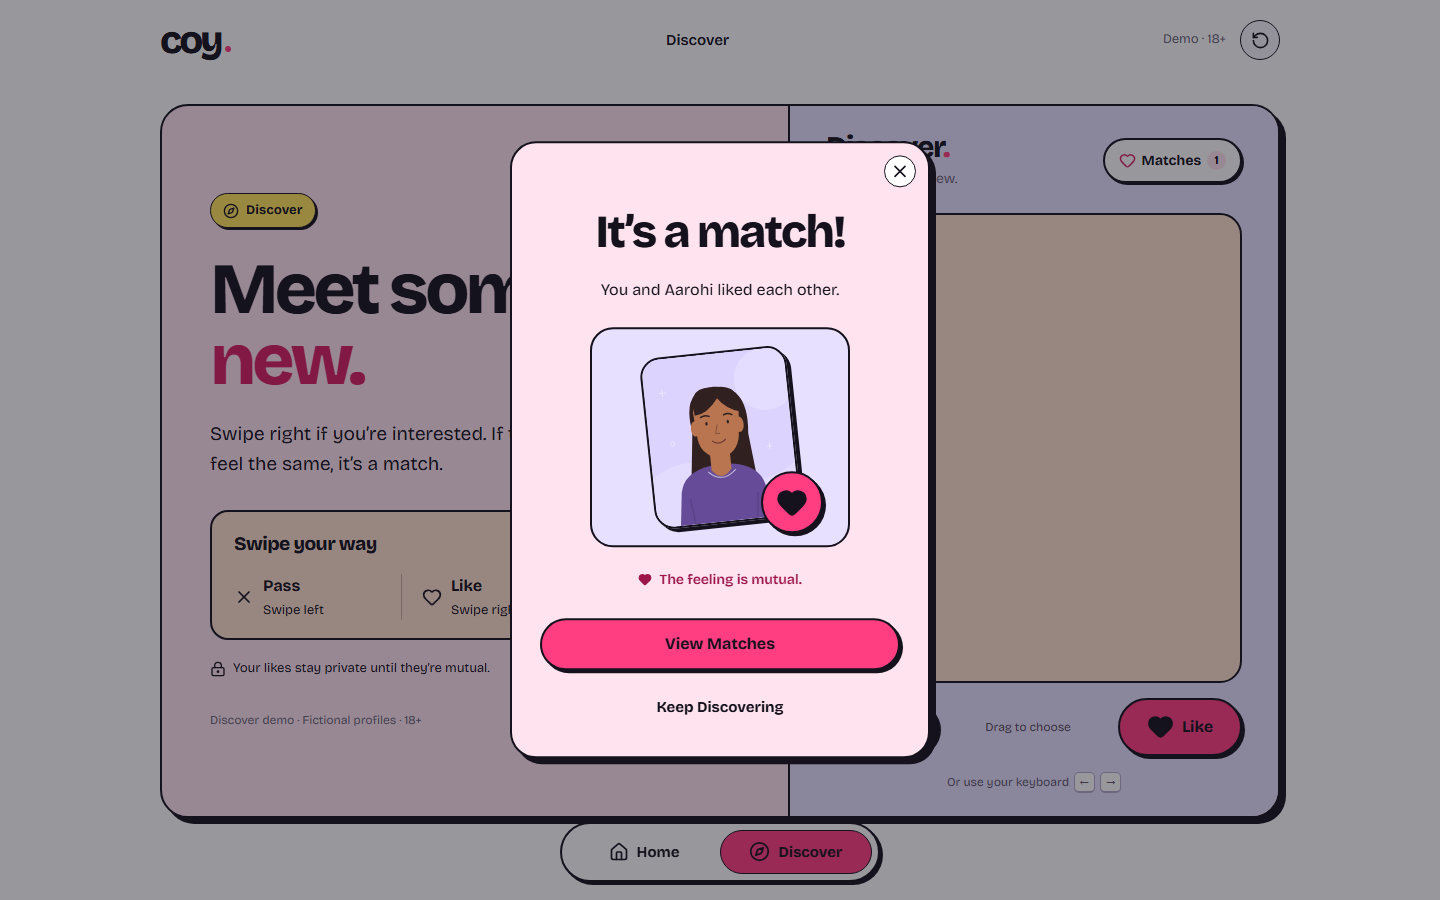
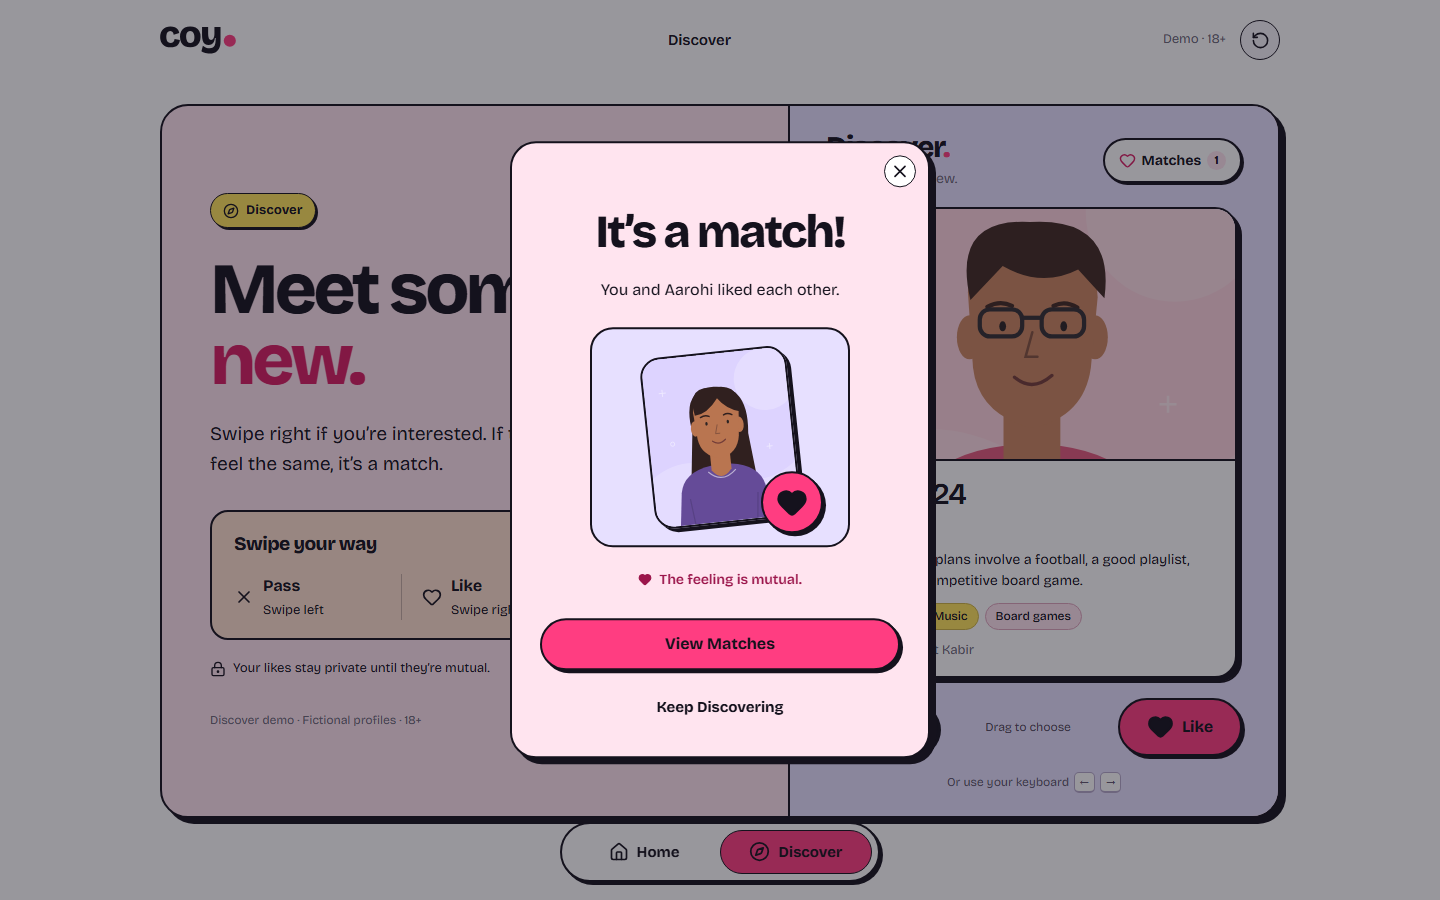
chore: finalize Coy branding and publish assignment

Changed region(s): [[0.625, 0.2178, 0.875, 0.7778], [0.0938, 0.0311, 0.1875, 0.0622], [0.4688, 0.0311, 0.5, 0.0622]]

diff --git a/src/app/globals.css b/src/app/globals.css
@@ -55,15 +55,8 @@ button svg, a svg { pointer-events: none; }
   align-items: center;
   justify-content: space-between;
 }
-.wordmark {
-  font-size: 39px;
-  font-weight: 800;
-  letter-spacing: -3px;
-  line-height: 1;
-  display: flex;
-  align-items: baseline;
-}
-.wordmark span { color: var(--pink); font-size: 14px; letter-spacing: 0; margin-left: 3px; }
+.wordmark { display: inline-flex; align-items: center; flex-shrink: 0; }
+.wordmark img { display: block; width: 76px; height: 28px; }
 .header-note { font-size: 15px; font-weight: 600; }
 .header-tools { display: flex; gap: 14px; align-items: center; }
 .demo-label { font-size: 13px; color: var(--muted); }
@@ -336,8 +329,6 @@ kbd { display: inline-grid; place-items: center; min-width: 21px; height: 21px; 
 @media (max-width: 600px) {
   body { padding-bottom: calc(86px + env(safe-area-inset-bottom)); }
   .site-header { height: 58px; padding: 0 18px; }
-  .wordmark { font-size: 32px; letter-spacing: -2.6px; }
-  .wordmark span { font-size: 11px; }
   .header-note, .demo-label { display: none; }
   .header-tools .icon-button { width: 34px; height: 34px; }
   .discover-layout { margin: 8px 12px 18px; border-radius: 23px; box-shadow: 4px 4px 0 var(--ink); }

diff --git a/src/components/shell.tsx b/src/components/shell.tsx
@@ -1,5 +1,6 @@
 'use client';
 import Link from 'next/link';
+import Image from 'next/image';
 import { usePathname, useRouter } from 'next/navigation';
 import { Compass, Home, RotateCcw, Heart, LoaderCircle } from 'lucide-react';
 import { useState } from 'react';
@@ -22,7 +23,7 @@ export function Shell({ children }: { children: React.ReactNode }) {
   }
   return <>
     <a className="skip-link" href="#main-content">Skip to content</a>
-    <header className="site-header"><Link href="/discover" className="wordmark" aria-label="Coy Discover">coy<span>●</span></Link>
+    <header className="site-header"><Link href="/discover" className="wordmark" aria-label="Coy Discover"><Image src="/brand/coy-wordmark.svg" width={76} height={28} alt="" loading="eager" /></Link>
       <span className="header-note">Discover</span>
       <div className="header-tools"><span className="demo-label">Demo · 18+</span><button className="icon-button" aria-label="Reset demo" onClick={() => setResetOpen(true)}><RotateCcw size={19} /></button></div>
     </header>

diff --git a/src/app/layout.tsx b/src/app/layout.tsx
@@ -6,7 +6,7 @@ import '@fontsource/bricolage-grotesque/latin-500.css';
 import '@fontsource/bricolage-grotesque/latin-800.css';
 import './globals.css';
 import { Shell } from '@/components/shell';
-export const metadata: Metadata = { title: 'Coy Discover — meet someone new', description: 'Meet someone new. A privacy-first discovery demo: your likes stay private until the feeling is mutual.' };
+export const metadata: Metadata = { icons: { icon: '/brand/coy-icon.svg', apple: '/brand/coy-apple-touch-icon.png' }, title: 'Coy Discover — meet someone new', description: 'Meet someone new. A privacy-first discovery demo: your likes stay private until the feeling is mutual.' };
 export default function RootLayout({ children }: { children: React.ReactNode }) {
   return <html lang="en"><body><Shell>{children}</Shell></body></html>;
 }

diff --git a/README.md b/README.md
@@ -1,14 +1,12 @@
 # Coy Discover
 
-**A little curiosity. A real connection.**
-
 A standalone, mobile-first proposal for Coy's Discover tab, built for **Part B of the Coy SDE Intern assignment**. Browse 36 fictional adults, swipe left to pass or right to like, and discover a connection only when the feeling is mutual.
 
-**[Open the live app](https://coy-discover-assignment.vercel.app)** · **[Public GitHub repository](https://github.com/parthgoyal26-03-2005/coy-discover-assignment)** · **[Passing verification workflow](https://github.com/parthgoyal26-03-2005/coy-discover-assignment/actions/runs/44551376852)**
+**[Open the live app](https://coy-discover-assignment.vercel.app/discover)** · **[Public GitHub repository](https://github.com/parthgoyal26-03-2005/coy-discover-assignment)** · **[Verification workflows](https://github.com/parthgoyal26-03-2005/coy-discover-assignment/actions)**
 
-The live app is deployed to Vercel on Node.js 24 and connected to Neon PostgreSQL. Its migration and all 36 seed profiles are applied. HTTPS browser verification confirmed mutual matching, reload persistence, touch dragging, session isolation, scoped reset, and zero browser console errors. The verified application source is commit `3367b31992b071b279ace675e8830198f44ee38d`; subsequent documentation commits record the live results.
+The live app runs on the existing Vercel project with Node.js 24 and Neon PostgreSQL. All 36 fictional profiles are seeded. The default `main` branch contains the finished redesign and official local logo assets.
 
-This project uses its own data and backend. It never calls Coy's production APIs. Part A, OTP, invitations, payments, and chat are outside this submission.
+This is an independent recruitment demonstration, not Coy's official application or codebase. It uses its own data and backend and never calls Coy's production APIs. Part A, OTP, invitations, payments, and chat are outside this submission.
 
 ## What works
 
@@ -23,11 +21,11 @@ This project uses its own data and backend. It never calls Coy's production APIs
 
 ## Brand refinement
 
-The `style/coy-brand-refinement` branch refines the existing UI using Coy?s measured typography, colors, borders, and button styles. See [the visual review and actual before/after screenshots](docs/redesign/README.md). The API, matching logic, database schema, profile data, and existing tests are preserved.
+The interface uses Coy's measured typography, colors, borders, and button styles. The shared header renders the official SVG wordmark from [public/brand/](public/brand/README.md), including its original lettering and pink dot. Home, Discover, and Matches use the same header; the favicon and Apple touch icon also use official local assets. See [the visual review and actual before/after screenshots](docs/redesign/README.md). The API, matching logic, database schema, profile data, and existing tests are preserved.
 
 ## Screenshots
 
-Real screenshots are captured by the Playwright walkthrough, with the app connected to local PostgreSQL.
+These real screenshots show the final production build connected to Neon PostgreSQL, captured with Playwright on desktop and mobile.
 
 | Discover · desktop | Discover · mobile |
 | --- | --- |
@@ -53,7 +51,7 @@ Real screenshots are captured by the Playwright walkthrough, with the app connec
 | Vitest + Playwright | Database integration tests and real browser walkthroughs |
 | Vercel | Deployment target; Node.js API runtime |
 
-Headings and body text use Bricolage Grotesque, matching Coy?s official site. Both are bundled locally. The interface follows the supplied Coy reference: white surfaces, bright pink actions, lavender accents, rounded cards, dark outlines, and hard offset shadows.
+Headings and body text use Bricolage Grotesque, matching Coy's official site. Fonts are bundled locally. The interface follows the supplied Coy reference: white surfaces, bright pink actions, lavender accents, rounded cards, dark outlines, and hard offset shadows.
 
 ## Start locally
 
@@ -81,7 +79,7 @@ Use the URL provided by Neon, including its TLS parameters. Keep it server-only:
 npm run db:local
 ```
 
-Leave that terminal open. This starts a **real PostgreSQL server**, with data stored under ignored `.postgres/`. The default URL in `.env.example` points to it. Stop it with Ctrl+C; restarting preserves the database.
+Leave that terminal open. This starts a **real PostgreSQL server**, with data stored under ignored `.postgres/`. Replace the placeholder in `.env.local` with `DATABASE_URL=postgresql://coy:coy_local_only@127.0.0.1:54329/coy`. These credentials are disposable local development defaults, not hosted database credentials. Stop it with Ctrl+C; restarting preserves the database.
 
 The `embedded-postgres` development dependency bundles PostgreSQL binaries. If your package manager blocks its installation script, approve/rebuild the platform package as described in the package's README. On Linux, run as a normal user rather than root. For machines where bundled binaries are unavailable, use Docker or an existing PostgreSQL installation.
 
@@ -243,22 +241,15 @@ Vitest exercises the matching service against PostgreSQL, including persistence,
 
 See [VALIDATION.md](VALIDATION.md) for the checks actually run during implementation.
 
-## Deploy to Vercel with Neon
+## Existing Vercel deployment
 
-1. Create a new Neon project, set the connection URL in your local environment, and run `db:migrate` followed by `db:seed` against that database.
-2. Push this source to a new public GitHub repository named `coy-discover-assignment`.
-3. Import that repository as a **new** Vercel project. Add `DATABASE_URL` to the appropriate Production and Preview environments. Set the Node.js version to 24.x.
-4. Deploy using the included Next.js configuration. The API handlers explicitly use the Node.js runtime; the app's local portraits and fonts are included in the deployment.
-5. Verify `/feed`, a swipe, a confirmed match, and reload persistence on the live URL. Verify that a separate browser has a separate demo history.
+Production: https://coy-discover-assignment.vercel.app/discover
 
-Migrations run explicitly, rather than on every function invocation or build. Keep Preview and Production databases separate. Never run a destructive development reset or replace an unrelated Vercel project. Preserve the production database across deploys for session continuity.
+The existing `coy-discover-assignment` project is retained, including its domain, Node.js 24 settings, and server-only `DATABASE_URL`. Deploy the verified `main` commit to that project; do not create a second project or replace its database.
 
-If repository creation is not available in your environment, these commands prepare the requested public repo after GitHub CLI authentication:
+The current publication uses a deployment from the GitHub commit through Vercel's API. Automatic deployment from GitHub pushes is not connected. To enable it, open the existing project's **Settings > Git > Connect Git Repository**, select `parthgoyal26-03-2005/coy-discover-assignment`, and use `main` as the production branch. Preserve the existing environment variables.
 
-```sh
-gh auth login
-gh repo create coy-discover-assignment --public --source=. --remote=origin --push
-```
+For a separate installation, configure your own `DATABASE_URL`, run `db:migrate` and `db:seed` explicitly, and import the repository into your own Vercel project. The API handlers use the Node.js runtime. Migrations do not run on builds or function invocations. Retain the same database and domain across updates to preserve sessions.
 
 ## Project map
 
@@ -272,6 +263,7 @@ src/lib/matching/        Transactional business rules
 src/lib/session/         HTTP-only anonymous sessions
 src/lib/validation/      Zod request schema
 src/data/                Fictional seed fixtures (server tooling only)
+public/brand/            Official Coy wordmark and app icons
 public/demo-profiles/    36 original local SVG illustrations
 scripts/                Local PostgreSQL, migration, seeding
 tests/                  Database integration and browser tests

diff --git a/VALIDATION.md b/VALIDATION.md
@@ -2,7 +2,28 @@
 
 Verified on 19 November 2026 (Asia/Calcutta).
 
-## Successful checks
+## Final branding and publication checks
+
+The final logo correction preserved the existing application and backend. Checks rerun against the finished source:
+
+| Check | Result |
+| --- | --- |
+| TypeScript and ESLint | Both passed; no lint errors or warnings |
+| Production build | Passed; all 11 static-page generation tasks completed |
+| Vitest / Neon PostgreSQL | 18/18 passed |
+| Playwright / production server / Neon | 12/12 passed, desktop and touch-enabled mobile Chromium, 2.2 minutes |
+| Official logo | Exact local official SVG; 76 x 28 CSS pixels on Home, Discover, and Matches at desktop and mobile sizes |
+| Metadata | Official local favicon and Apple touch icon configured |
+| Visual review | Final Discover desktop/mobile, celebration, and Matches screenshots opened and inspected; tablet also captured |
+| Responsive walkthrough | Desktop 1440 x 900, tablet 768 x 1024, mobile 390 x 844; no horizontal overflow, controls above navigation, zero browser console/page errors |
+| Security audit | All 136 existing history blobs and current files scanned before the final commit; no supplied hosted credentials, token signatures, private keys, or private email addresses in file contents |
+| Exclusions | Environment files, dependencies, build output, local database, and temporary tooling ignored; `.env.example` contains placeholders only |
+
+The official asset sources are documented in `public/brand/README.md`. Final screenshots are in `docs/screenshots/`; earlier redesign comparison images remain historical. Public GitHub `main` is the submission branch. The final deployment commit and public HTTPS smoke results are verified during publication and reported in the delivery message.
+
+The existing Vercel project is retained. Automatic GitHub deployment remains a manual Settings > Git connection step because the available connector cannot reconnect this existing unlinked project. Publication deploys the exact GitHub commit through Vercel's API instead.
+
+## Earlier implementation checks
 
 | Check | Actual result |
 | --- | --- |

diff --git a/public/brand/README.md b/public/brand/README.md
@@ -1,0 +1,9 @@
+# Coy brand assets
+
+These unmodified public assets were retrieved from Coy's official website on 2026-11-19:
+
+- `coy-wordmark.svg`: https://getcoy.com/img/coy-wordmark.svg (header wordmark, displayed at the official 76 x 28 CSS pixels).
+- `coy-icon.svg`: https://getcoy.com/favicon.svg (also copied to `src/app/icon.svg`).
+- `coy-apple-touch-icon.png`: https://getcoy.com/apple-touch-icon.png.
+
+Coy's name and logo belong to their respective owner. They identify the company whose recruitment assignment this independent demonstration implements; inclusion does not imply endorsement or transfer trademark rights. This repository is not Coy's official application or codebase.

diff --git a/docs/redesign/README.md b/docs/redesign/README.md
@@ -2,6 +2,8 @@
 
 The redesign adapts the design system observed on [Coy's official website](https://getcoy.com/), rather than copying its marketing homepage. The original production app was captured before any source changes.
 
+The before/after images below document the earlier redesign. The final publication replaces its typographic header approximation with Coy's official SVG; see the current [README screenshots](../../README.md#screenshots) and [asset sources](../../public/brand/README.md).
+
 ## What changed
 
 - Replaced the three-row instructional section with one compact peach swipe guide and a single privacy line.
